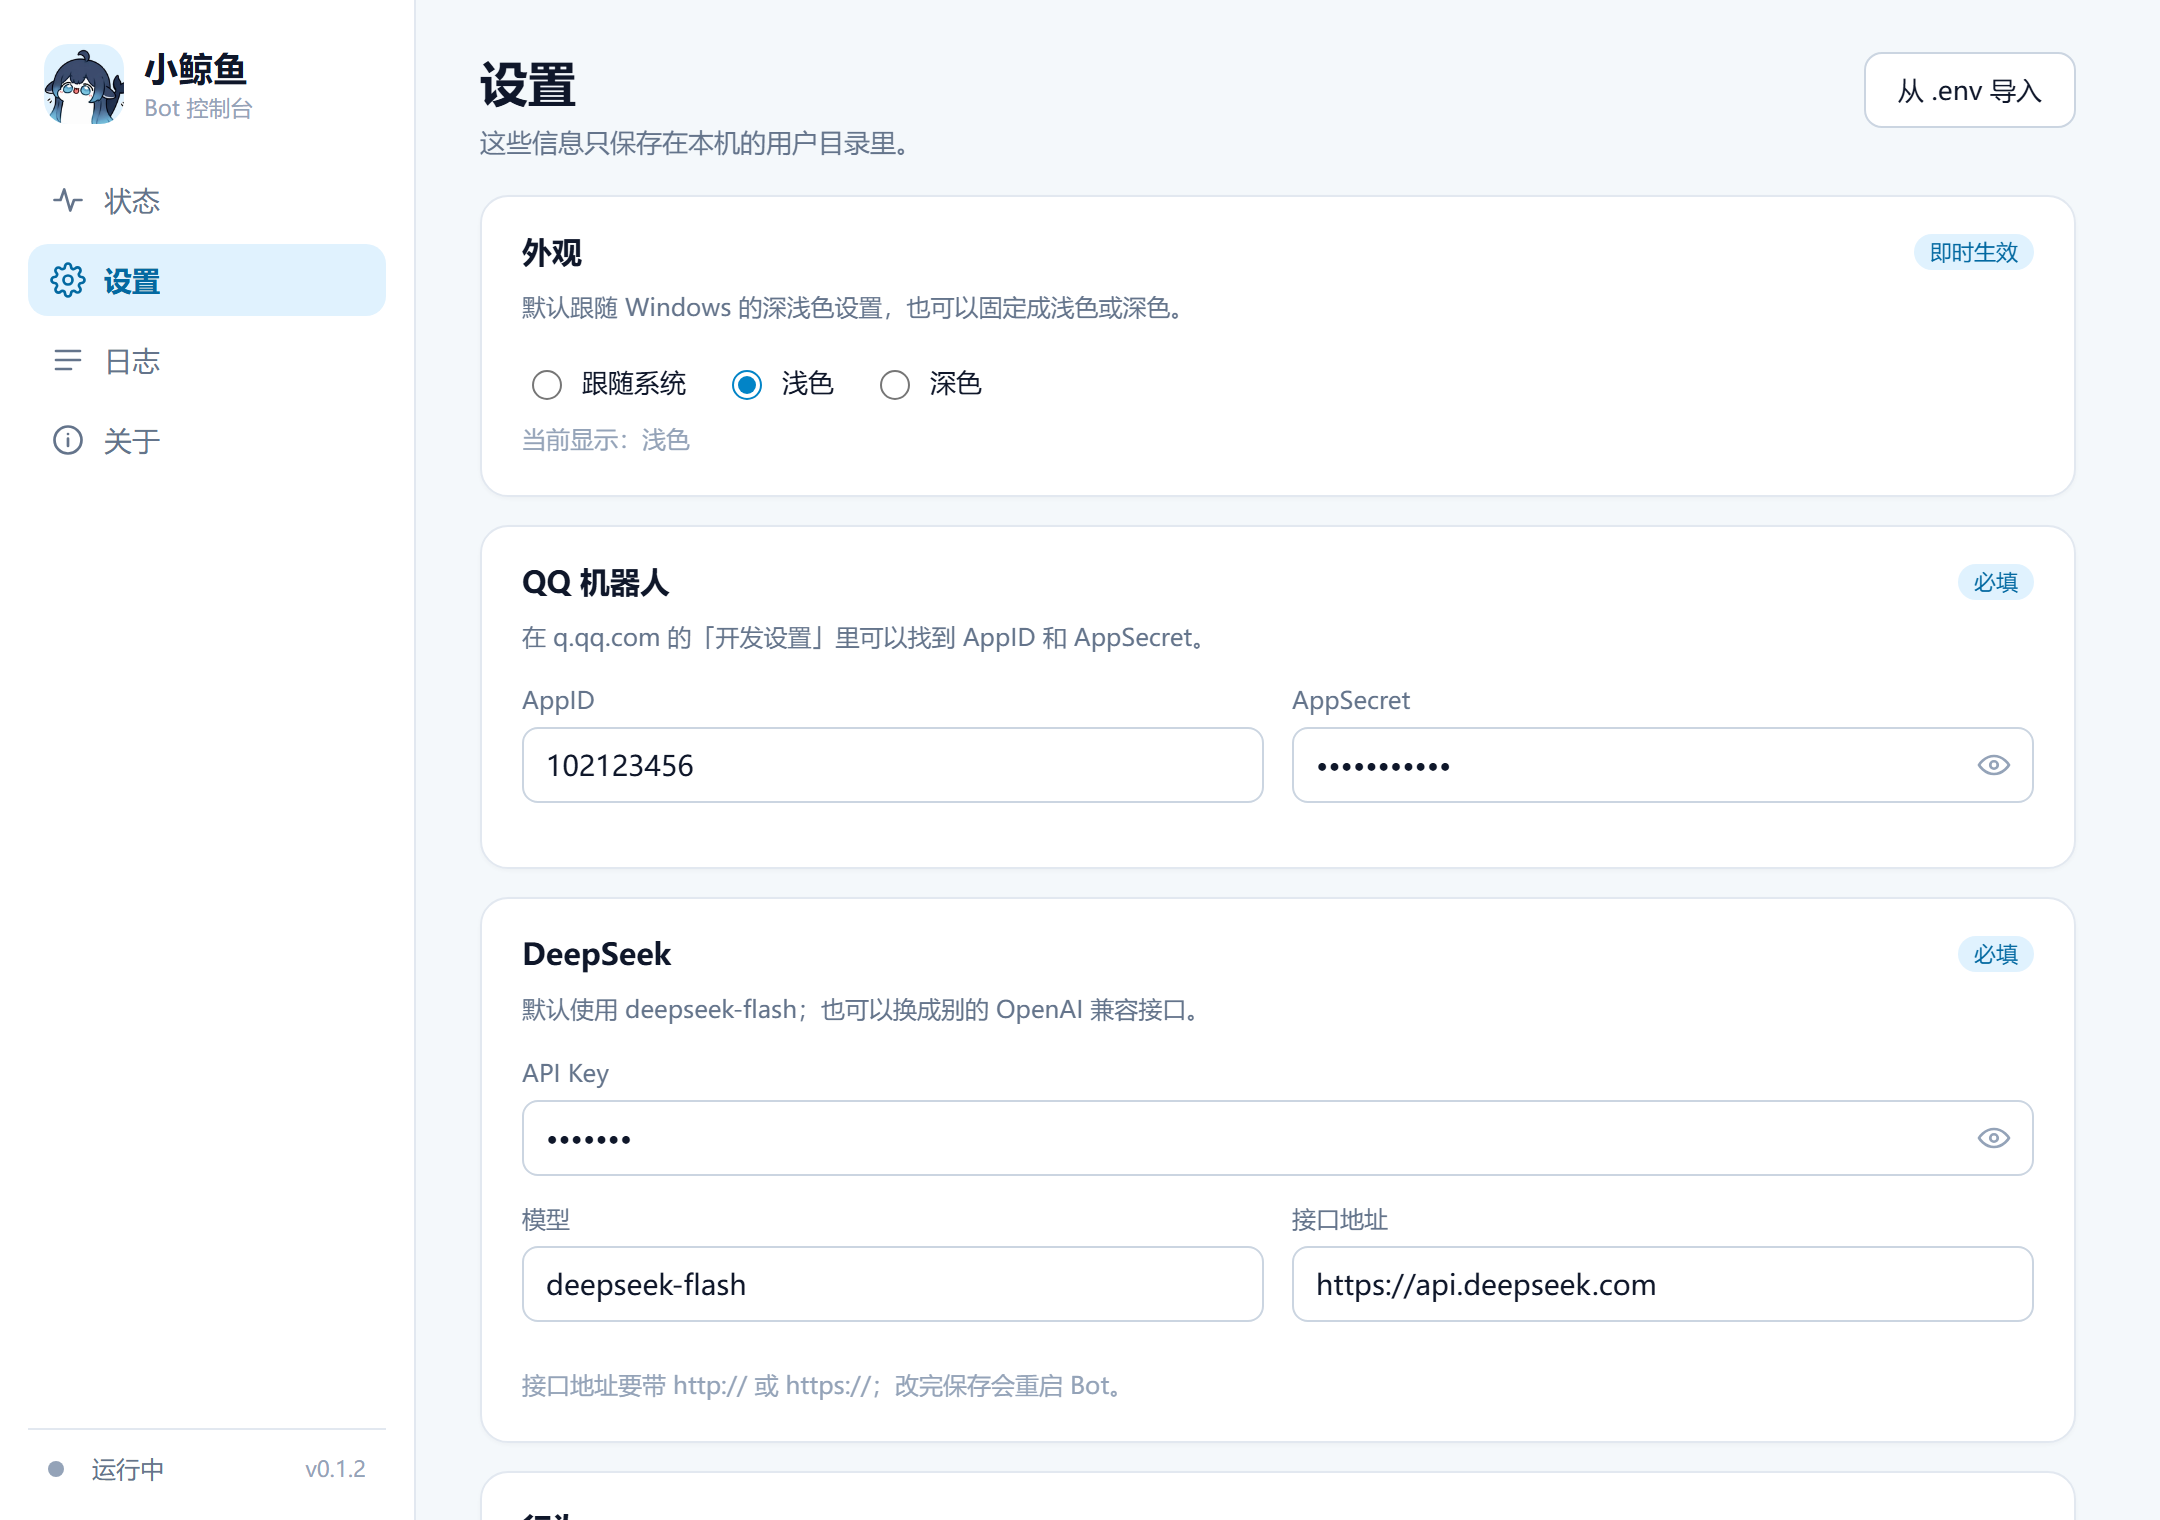
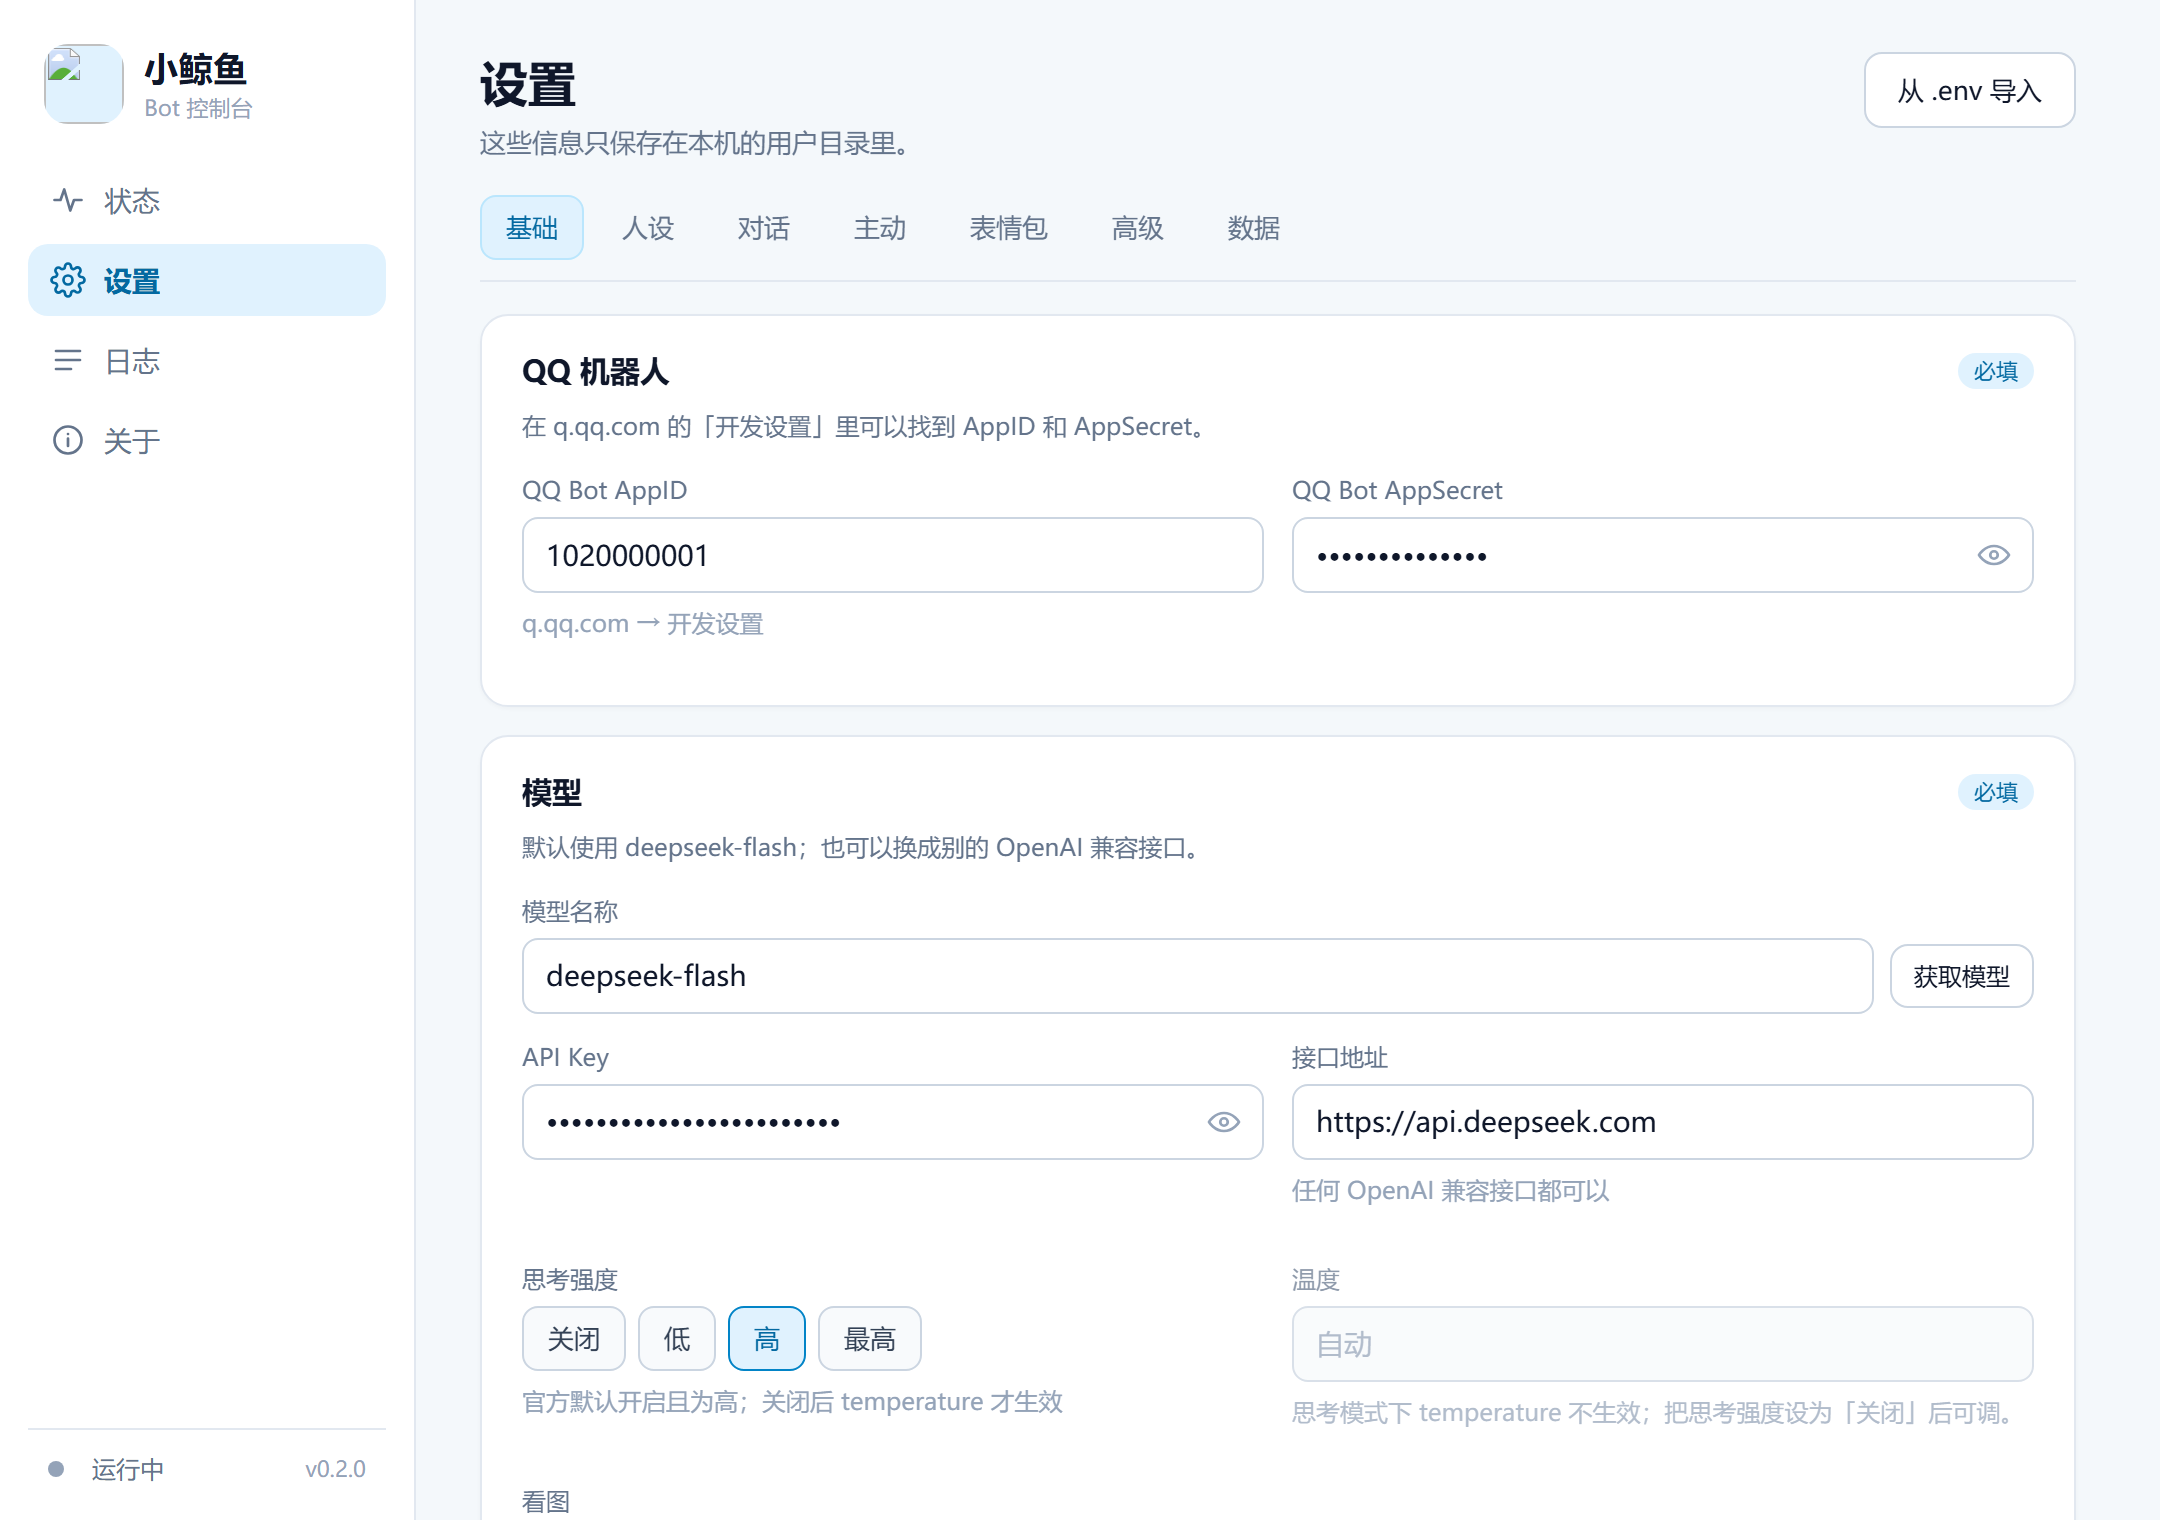
docs: 同步 v0.2.0 截图与文档

diff --git a/README.md b/README.md
@@ -39,7 +39,7 @@
 <p align="center">
   <img src="docs/screenshots/console-settings.png" alt="桌面控制台 · 设置页" />
   <br />
-  <sub>设置页：外观主题、QQ / DeepSeek 配置（含模型与接口地址）、关窗行为、开机自启</sub>
+  <sub>设置页：基础 / 人设 / 对话 / 主动 / 表情包 / 高级 / 数据七个 Tab，截图截取的是基础页</sub>
 </p>
 
 <p align="center">
@@ -254,7 +254,7 @@ pnpm release patch    # 发版：bump + tag + push（触发 CI）
 | 手机私聊没反应 | q.qq.com 的事件订阅是不是 **WebSocket**；QQ 号在不在「内部体验号码」；是不是同时开了两个 Bot |
 | 日志里出现 `4009` | 同一个 AppID 只允许一条 WebSocket 连接，把另一个实例 / 客户端关掉 |
 | 她从不主动说话 | 主动消息受平台额度限制，失败只记日志；再确认 `PROACTIVE_ENABLED` 和免打扰时段（默认 23:00–9:00） |
-| 表情包不发或很离谱 | 看图库标签质量、`MIN_SCORE` 阈值、8 分钟冷却；模型主动要图时只发语义命中的 |
+| 表情包不发或很离谱 | 看图库标签质量、`STICKER_MIN_SCORE` 阈值、8 分钟冷却；模型主动要图时只发语义命中的 |
 | 记忆像没生效 | `data/history.json` 与 `memory/<userId>.json` 是否在写；压缩阈值 `HISTORY_SUMMARIZE_AT` |
 | 检查更新失败 | GitHub 是否可达；自动更新需要能访问 `api.github.com` 和 `github.com` |
 | 更新安装失败 | 看 `%APPDATA%\whale-companion\updates\update.log`；程序目录要可写，Bot 要先停掉 |
@@ -272,6 +272,9 @@ pnpm release patch    # 发版：bump + tag + push（触发 CI）
 - 自动更新依赖 GitHub 可达，且便携目录可写；没有增量更新，每次下载完整 zip
 - 第二个实例只提示并退出，不会把已有窗口调到前台
 - 挑图依赖标签质量，同义不同词（「高兴」vs「开心」）可能漏
+- 自定义斜杠命令、心情列表和表情包缩略图还没做；图库目前只能看标签、删除、重打标
+- 从 0.1.x 第一次升到 0.2.0 时，执行更新的是旧版更新器，旧版没有“失败自动还原”；
+  0.2.0 之后的更新才会走备份/还原脚本
 - 真实存储读写、真实 QQ 链路、Neutralino 托盘和真实更新链路目前没有自动化测试
 
 ## 文档与参与

diff --git a/docs/plans/implementation-status.md b/docs/plans/implementation-status.md
@@ -2,10 +2,13 @@
 
 对应方案：[2026-10 可配置化与 Code Review](2026-10-customization-and-code-review.md)。
 
-- 基线：`667981a` → 当前 `main`（本地提交，未 push）
+- 基线：`667981a` → 发布提交 `f3f1d03`（tag `v0.2.0`，已 push）
 - 验证：`pnpm typecheck` 通过；`pnpm test` **134 个用例全绿**（server 77 + desktop 57）
 - 打包：`pnpm desktop:pack` 生成 `whale-companion-0.2.0-win-x64.zip`
+- 发布：CI 成功，GitHub Release 带 zip 与 `SHA256SUMS.txt`
 - 运行：便携版已启动，QQ 在线；`bot.json` 在 Bot 读取后已删除
+- 文档：README 功能/自定义/隐私/已知限制、AGENTS 设置与发版规则、CHANGELOG、
+  `.env.example`、三张控制台截图已同步到 v0.2.0
 
 ## 审查项状态
 
